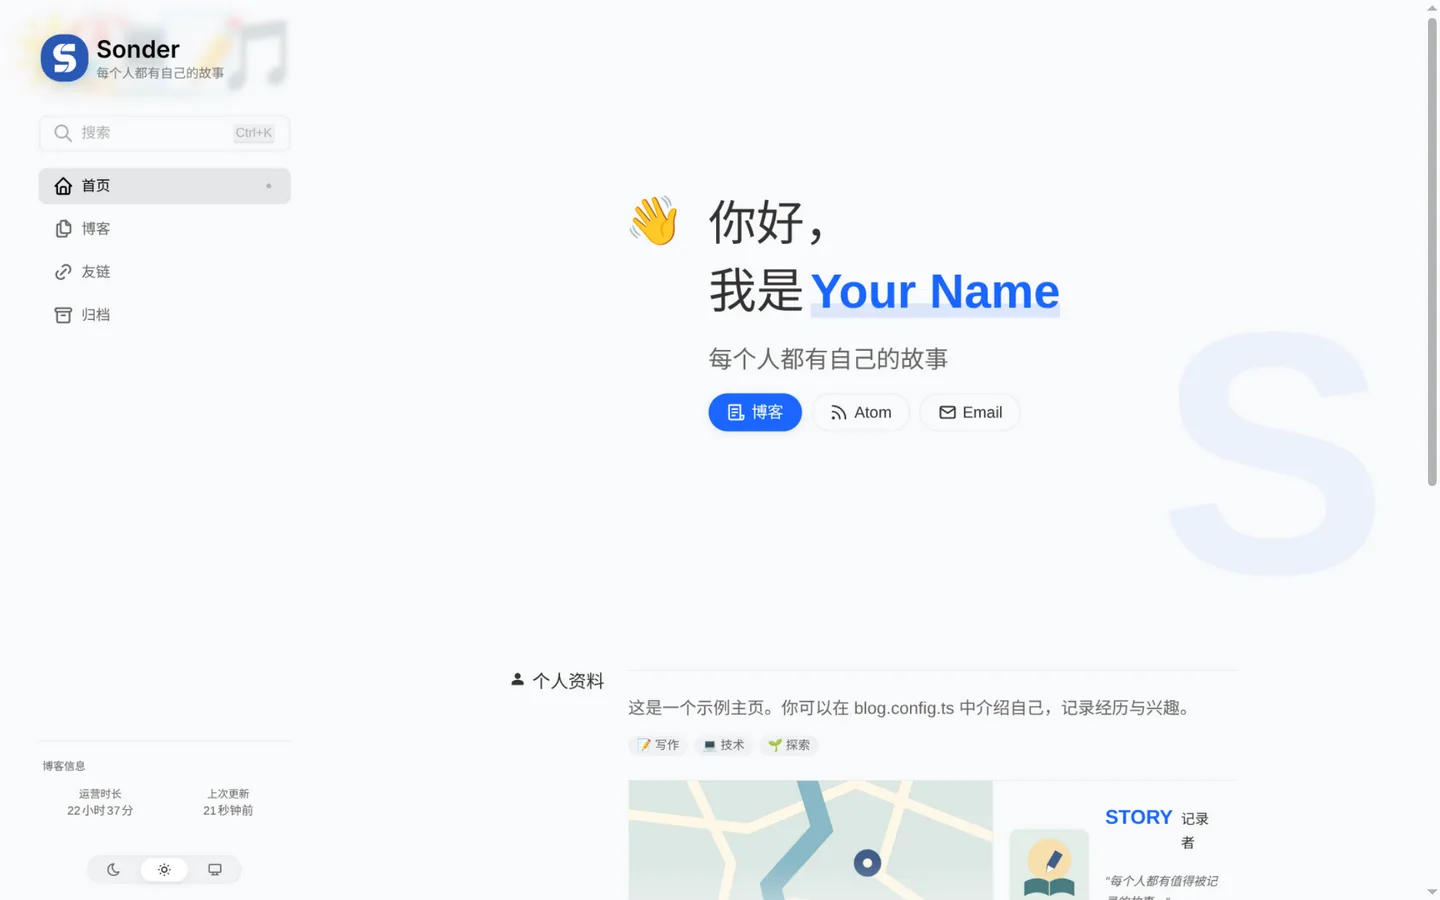
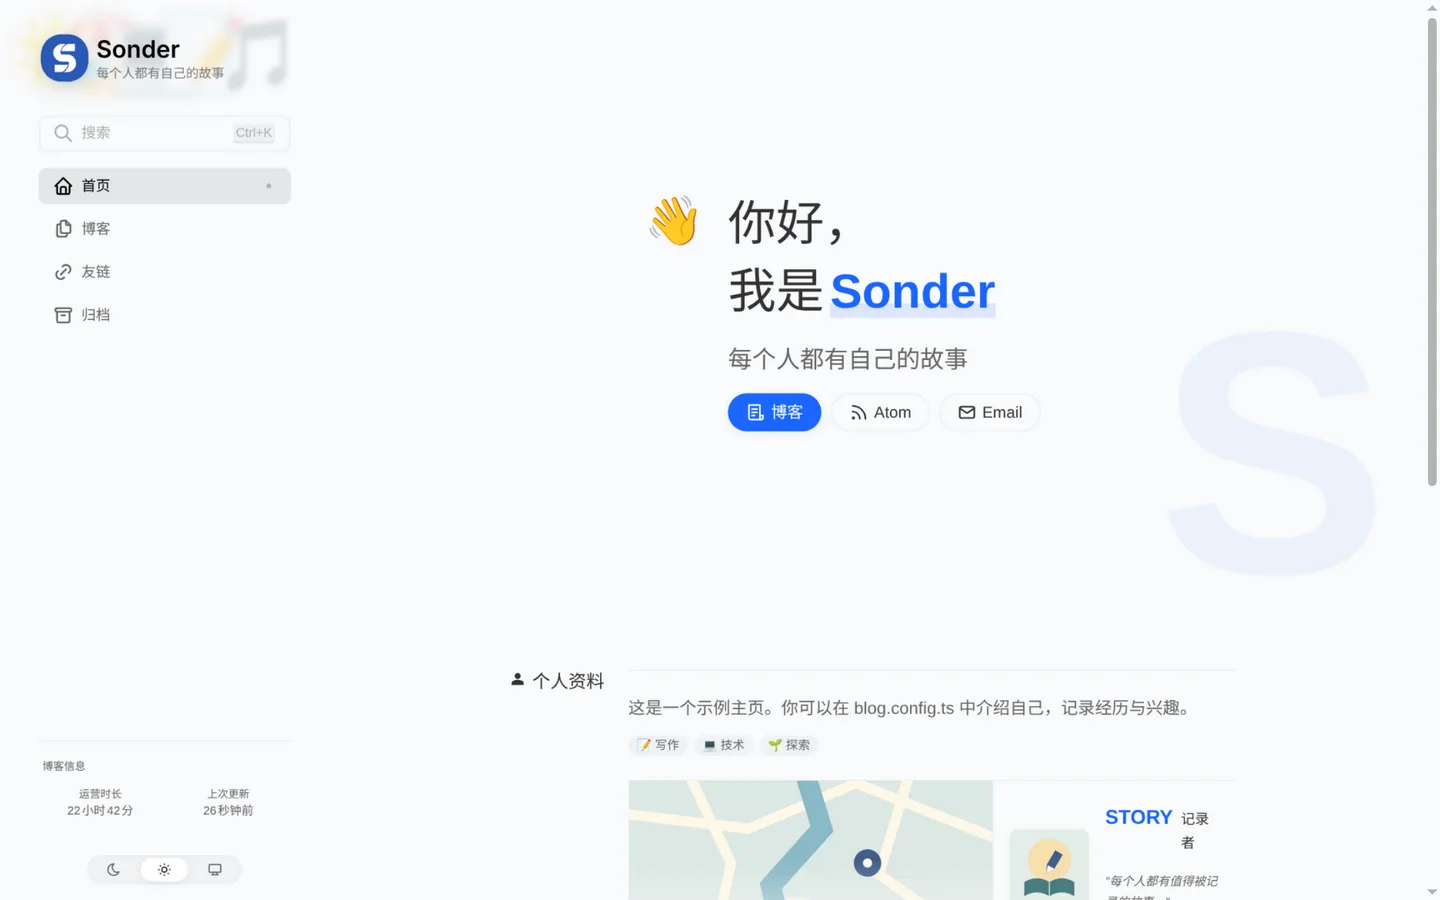
chore: 演示站身份统一为 Sonder
- blog.config.ts 作者名 Your Name → Sonder，邮箱与主页指向 sonder.liang.one
- 两篇示例文章、友链页的作者署名同步替换
- README 双语版的默认值说明同步更新，首页截图重拍

Changed region(s): [[0.4375, 0.2178, 0.75, 0.4978]]

diff --git a/blog.config.ts b/blog.config.ts
@@ -14,13 +14,13 @@ const basicConfig = {
 	description: 'Sonder 是一个基于 Nuxt 的博客程序。万千人生，各自成书。',
 	author: {
 		// 作者显示名称 / Author display name
-		name: 'Your Name',
+		name: 'Sonder',
 		// 作者头像图片地址 / Author avatar image URL
 		avatar: '/images/logo.svg',
 		// 联系邮箱 / Contact email
-		email: 'hello@example.com',
+		email: 'hello@sonder.liang.one',
 		// 作者主页 / Author homepage
-		homepage: 'https://example.com',
+		homepage: 'https://sonder.liang.one',
 	},
 	copyright: {
 		// 版权名称 / Copyright name

diff --git a/content/posts/writing.md b/content/posts/writing.md
@@ -1,6 +1,6 @@
 ---
 title: 写作手册
-author: Your Name
+author: Sonder
 description: 代码块、公式、图表，以及文章里可以直接调用的全部组件，都配上了效果和写法。
 date: 2026-10-04
 updated: 2026-10-04
@@ -172,7 +172,7 @@ active: 1
 ::poetry
 ---
 title: 留一行
-author: Your Name
+author: Sonder
 footer: 原创练习
 ---
 把复杂的问题，
@@ -184,7 +184,7 @@ footer: 原创练习
 ::poetry
 ---
 title: 留一行
-author: Your Name
+author: Sonder
 footer: 原创练习
 ---
 把复杂的问题，
@@ -328,7 +328,7 @@ id: BV1Yr421p7rW
 ---
 ::
 
-::audio-embed{src="/media/field-note.mp3" title="现场记录" artist="Your Name" cover="/images/cover.svg"}
+::audio-embed{src="/media/field-note.mp3" title="现场记录" artist="Sonder" cover="/images/cover.svg"}
 ::
 
 ::echo-music{songUrl="https://music.163.com/song?id=SONG_ID"}
@@ -396,11 +396,11 @@ link: https://example.org
 
 在吗
 
-{.Your Name}
+{.Sonder}
 
 在，正在写博客
 
-{:Your Name 撤回了一条消息}
+{:Sonder 撤回了一条消息}
 
 {路人}
 
@@ -431,7 +431,7 @@ link: https://example.org
 
 在吗
 
-{Your Name}
+{Sonder}
 
 在，正在写博客
 

diff --git a/content/posts/guide.md b/content/posts/guide.md
@@ -1,6 +1,6 @@
 ---
 title: 使用指南
-author: Your Name
+author: Sonder
 description: 从环境准备、站点配置到写完第一篇文章并发布上线，Sonder 的完整上手流程。
 date: 2026-10-04
 updated: 2026-10-04
@@ -76,7 +76,7 @@ const basicConfig = {
 ```
 
 ::alert{type="warning" title="url 别写错"}
-`url` 要写完整的 HTTPS 地址、不带末尾斜杠，它决定 canonical、sitemap 和订阅里的绝对链接。示例文章 Front Matter 里的 `author: Your Name` 也记得一起替换。
+`url` 要写完整的 HTTPS 地址、不带末尾斜杠，它决定 canonical、sitemap 和订阅里的绝对链接。示例文章 Front Matter 里的 `author: Sonder` 也记得一起替换成自己的名字。
 ::
 
 其余配置按需改，每项都在注释里说明了用途：

diff --git a/content/link.md b/content/link.md
@@ -1,6 +1,6 @@
 ---
 title: 友链说明
-author: Your Name
+author: Sonder
 description: 交换友链的说明，以及需要提供的信息。
 date: '2026-10-04'
 updated: '2026-10-04'
@@ -14,9 +14,9 @@ updated: '2026-10-04'
 
 评论默认是关闭的，发邮件给我就行：
 
-**hello@example.com**
+**hello@sonder.liang.one**
 
-> 这是模板里的示例邮箱，站点上线前记得在 `content/link.md` 和 `blog.config.ts` 里替换成你自己的。
+> 这是演示站的示例邮箱，站点上线前记得在 `content/link.md` 和 `blog.config.ts` 里替换成你自己的。
 
 邮件写「友链」就行，附上这三样：
 

diff --git a/README.en.md b/README.en.md
@@ -87,7 +87,7 @@ Installation runs `prepare`: it clears `.data` and the dependency cache, then ru
 
 ### First configuration
 
-The template ships with the demo site's settings (name Sonder, author Your Name, domain `sonder.liang.one`). Before deploying, change at least:
+The template ships with the demo site's settings: the site name and author are both Sonder, and the domain is `sonder.liang.one`. Before deploying, change at least:
 
 1. `basicConfig` at the top of `blog.config.ts`: title, subtitle, author, email, and `url` (full address, no trailing slash)
 2. The `home` section: greeting, bio, career, skills, social links

diff --git a/README.md b/README.md
@@ -87,7 +87,7 @@ pnpm exec nuxt dev --host 127.0.0.1
 
 ### 第一次配置
 
-模板默认是演示站的设置（站点名 Sonder、作者 Your Name、域名指向演示站 `sonder.liang.one`），部署前至少改这几处：
+模板默认是演示站的设置（站点名和作者名都是 Sonder、域名指向 `sonder.liang.one`），部署前至少改这几处：
 
 1. `blog.config.ts` 顶部的 `basicConfig`：标题、副标题、作者、邮箱、`url`（完整地址，不带末尾斜杠）
 2. `home` 区块：主页问候语、简介、生涯经历、技能、社交链接
